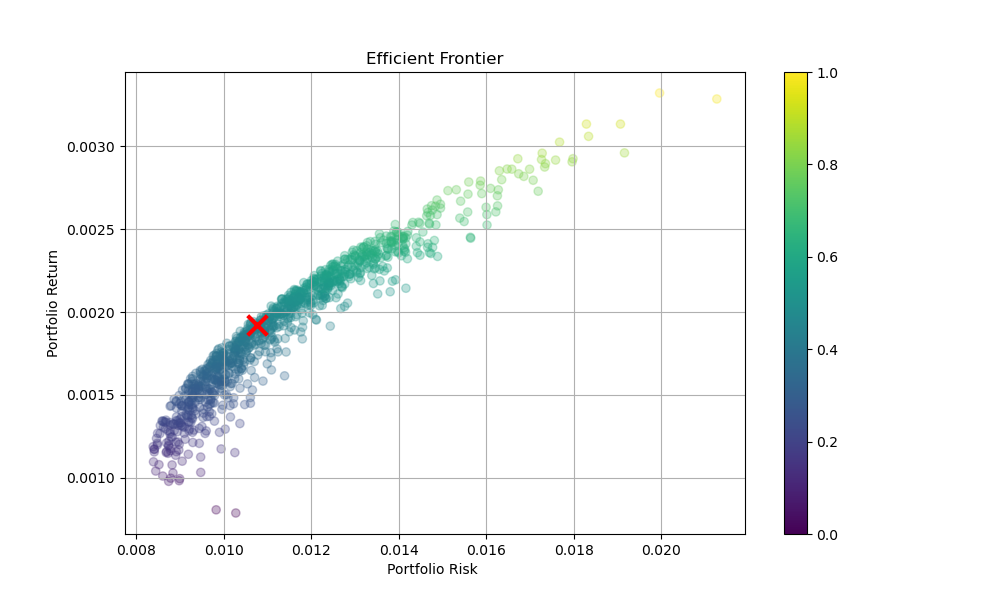
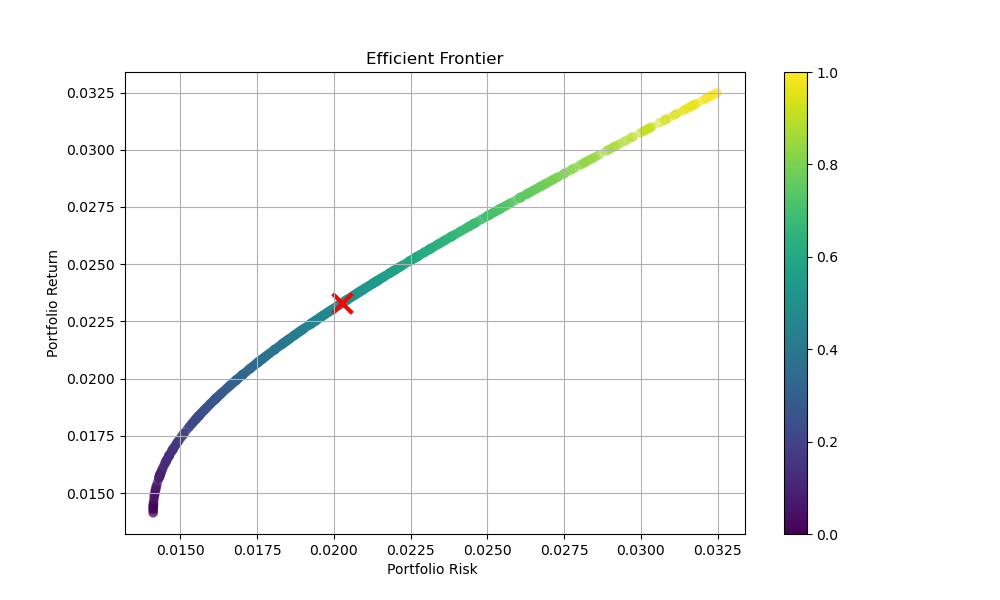
Changed code to class structure ofr easier manipulation

diff --git a/STK-MAT3700/Assignment1/Problem1d.py b/STK-MAT3700/Assignment1/Problem1d.py
@@ -1,0 +1,133 @@
+import yfinance as yf
+import warnings
+import datetime as dt
+import pandas as pd 
+import numpy as np
+import matplotlib.pyplot as plt 
+import seaborn as sns
+from scipy.stats import norm
+from scipy.optimize import minimize
+
+
+#Defining Timeframe
+start = dt.datetime(2023,10,1)
+end = dt.datetime.now()
+
+
+class EfficentFronter:
+    def __init__(self, timeframe: tuple, tickers: list) -> None:
+        self.start = timeframe[0]
+        self.end = timeframe[1]
+        self.tickers = tickers
+        self.ticker_dataframes = {}
+        self.closing_prices_dict = {}
+        self.daily_returns_dict = {}
+        self.annualized_returns = {}
+        self.volatility_dict = {}
+        self.annualized_volatility_dict = {}
+
+        # Automatically perform calculations
+        self.download_data()
+        self.closing_prices()
+        self.daily_returns()
+        self.calculate_annualized_return()
+        self.calculate_volatility()
+        self.calculate_annualized_volatility()
+
+    def download_data(self):
+        # Download data for each ticker
+        for ticker in self.tickers:
+            self.ticker_dataframes[ticker] = yf.download(ticker, self.start, self.end).loc[self.start:self.end]
+
+    def closing_prices(self):
+        # Calculate closing prices for each ticker
+        for ticker in self.tickers:
+            self.closing_prices_dict[ticker] = np.array(self.ticker_dataframes[ticker]["Close"])
+
+    def daily_returns(self):
+        # Calculate daily returns for each ticker
+        for ticker in self.tickers:
+            self.daily_returns_dict[ticker] = (self.closing_prices_dict[ticker][1:] - self.closing_prices_dict[ticker][:-1]) / self.closing_prices_dict[ticker][:-1]
+
+    def calculate_annualized_return(self):
+        # Calculate annualized return for each ticker
+        self.annualized_returns = {key: returns.mean() * 252 for key, returns in self.daily_returns_dict.items()}
+
+    def calculate_volatility(self):
+        # Calculate daily volatility (std dev) for each ticker
+        self.volatility_dict = {key: returns.std() for key, returns in self.daily_returns_dict.items()}
+
+    def calculate_annualized_volatility(self):
+        # Calculate annualized volatility for each ticker
+        self.annualized_volatility_dict = {key: vol * np.sqrt(252) for key, vol in self.volatility_dict.items()}
+
+    def portfolio_variance(self,weights, covariance_matrix):
+
+        return weights.T @ covariance_matrix @ weights
+    
+
+    def plot_efficent_frontier(self, number_of_portfolios):
+
+        corr_dataframe = pd.DataFrame(self.daily_returns_dict)
+        correlation_matrix = corr_dataframe.corr()
+
+        Covariance_matrix = self.volatility_dict * correlation_matrix * self.volatility_dict
+
+        Expected_returns =  np.array([value.mean() for value in self.volatility_dict.values()])
+
+        
+        portofolio_returns = np.zeros(number_of_portfolios)
+        portofolio_risks = np.zeros(number_of_portfolios)
+
+
+
+        for i in range(number_of_portfolios):
+
+            weights = np.random.rand(len(self.tickers))
+            weights /= np.sum(weights)
+
+            portofolio_risk = np.sqrt(self.portfolio_variance(weights,Covariance_matrix,))
+
+            portofolio_return = weights @ Expected_returns
+
+            portofolio_returns[i] = portofolio_return
+            portofolio_risks[i] = portofolio_risk
+
+
+        constraints = ({'type': 'eq', 
+                        'fun': lambda weights: np.sum(weights) - 1})
+
+        #Ensure weights are between 0 and 1 
+        bounds = tuple((0, 1) for asset in range(len(self.tickers)))
+
+        weigths0 = np.ones(len(self.tickers)) / len(self.tickers)
+
+        optimal_variance = minimize(self.portfolio_variance, weigths0, args= (Covariance_matrix,),method='SLSQP',bounds=bounds, constraints=constraints)
+
+        optimal_weigths = optimal_variance.x
+
+        minimum_variance_portfolio_return = optimal_weigths @ Expected_returns
+        minimum_variance_portofolio_risk = np.sqrt(self.portfolio_variance(optimal_weigths,Covariance_matrix,))
+
+        plt.figure(figsize=(10, 6))
+        plt.scatter(portofolio_risks, portofolio_returns, c=portofolio_returns, cmap='viridis', marker='o', alpha=0.3)
+        plt.scatter(minimum_variance_portofolio_risk, minimum_variance_portfolio_return, color='red',marker='x',s=200, linewidths=3, alpha=1, label='Minimum Variance Portfolio'
+        )
+        plt.colorbar()
+        plt.title('Efficient Frontier')
+        plt.xlabel('Portfolio Risk ')
+        plt.ylabel('Portfolio Return')
+        plt.grid(True)
+        plt.savefig("Efficent Frontier")
+        plt.show()
+
+
+
+list_of_tickers = ["AAPL", "NVDA"]
+timeframe = (start,end)
+test = EfficentFronter(timeframe, list_of_tickers)
+test.plot_efficent_frontier(1000)
+   
+    
+
+
